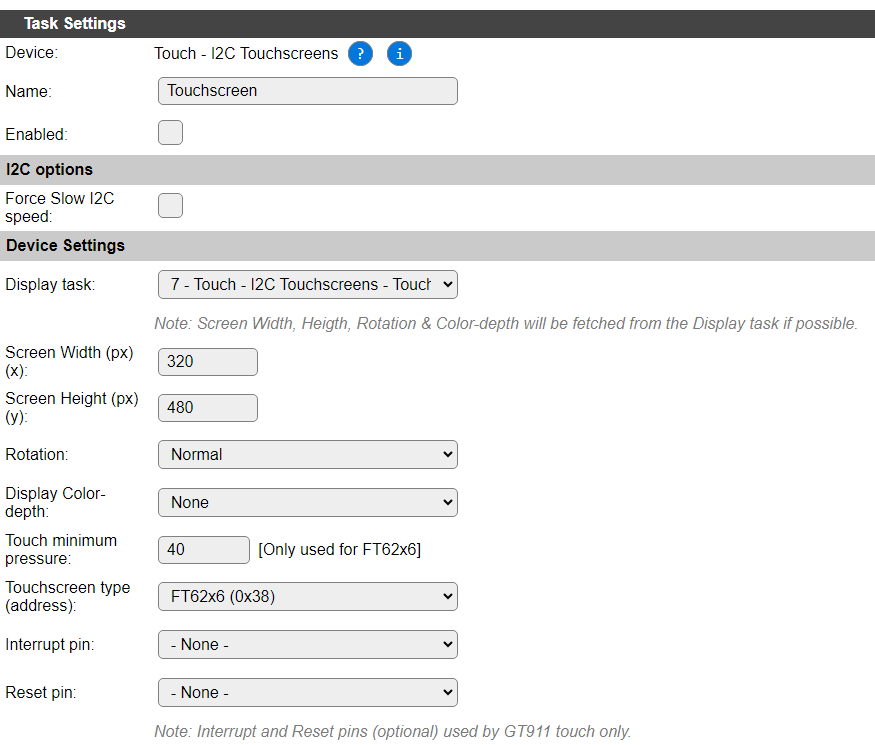
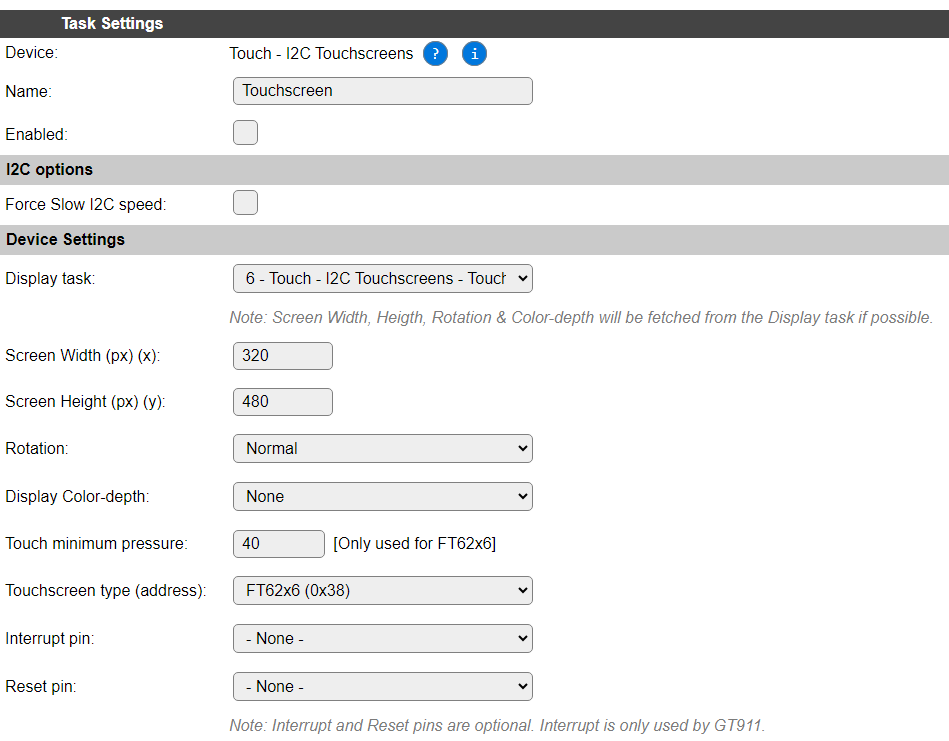
[P123] Update documentation

diff --git a/docs/source/Plugin/P123.rst b/docs/source/Plugin/P123.rst
@@ -65,7 +65,7 @@ The configured display will be used to draw the objects, if any, that can be con
 
 .. image:: P123_TouchscreenTypeOptions.png
 
-* *FT62x6 (0x38)*: Focaltech FT62x6/FT52x6 touchscreen controller family. Default selection.
+* *FT62x6 (0x38)*: Focaltech FT62x6/FT63x6/FT52x6 touchscreen controller family. Default selection.
 
 * *GT911 (0x5D)*: GT911 touchscreen controller, default address.
 
@@ -83,9 +83,11 @@ The configured display will be used to draw the objects, if any, that can be con
 
 * **Interrupt pin**: Select the GPIO that is connected to the IRQ connection of a GT911 touchscreen controller. The IRQ pin is only used for detection & address configuration, combined with the **Reset pin**, if available and configured. Only used for GT911 controller.
 
-* **Reset pin**: Select the GPIO that is connected to the Reset connection of a GT911 touchscreen controller. Similar to the **IRQ pin**, only used for the GT911 controller.
+* **Reset pin**: Select the GPIO that is connected to the Reset connection of the touchscreen controller. When set, this will be used to reset the controller during initialization. (See the Warning below). Do not set this GPIO setting if the RST pin is shared with another device, like on a WT32 SC01 Plus, where the display and touch controllers use the same GPIO pin. **Only** set the RST pin on the display configuration, and give that Display task a **lower task number** than the touch screen, as the touchscreen task will try to display defined objects on the connected Display device!
 
-.. note:: The **Interrupt** and **Reset** GPIO pins are only used for the GT911 controller, and are optional
+.. note:: The **Interrupt** and **Reset** GPIO pins are optional. Interrupt is only used by the GT911 controller during initialization.
+
+.. warning:: Some devices that have the reset pin connected, initially set that GPIO to low/0, causing the touch controller not to start, and it won't even show up on the I2C Scan. This can be solved by setting the involved GPIO pin to **Output High** on the :ref:`Hardware_page`.
 
 .. include:: Touch_Configuration.repl
 
@@ -96,8 +98,7 @@ Change log
 .. versionadded:: 2.0
   ...
 
-  |added|
-  Initial release version.
+  |added| 2024-06-05 Initial release version.
 
 
 
